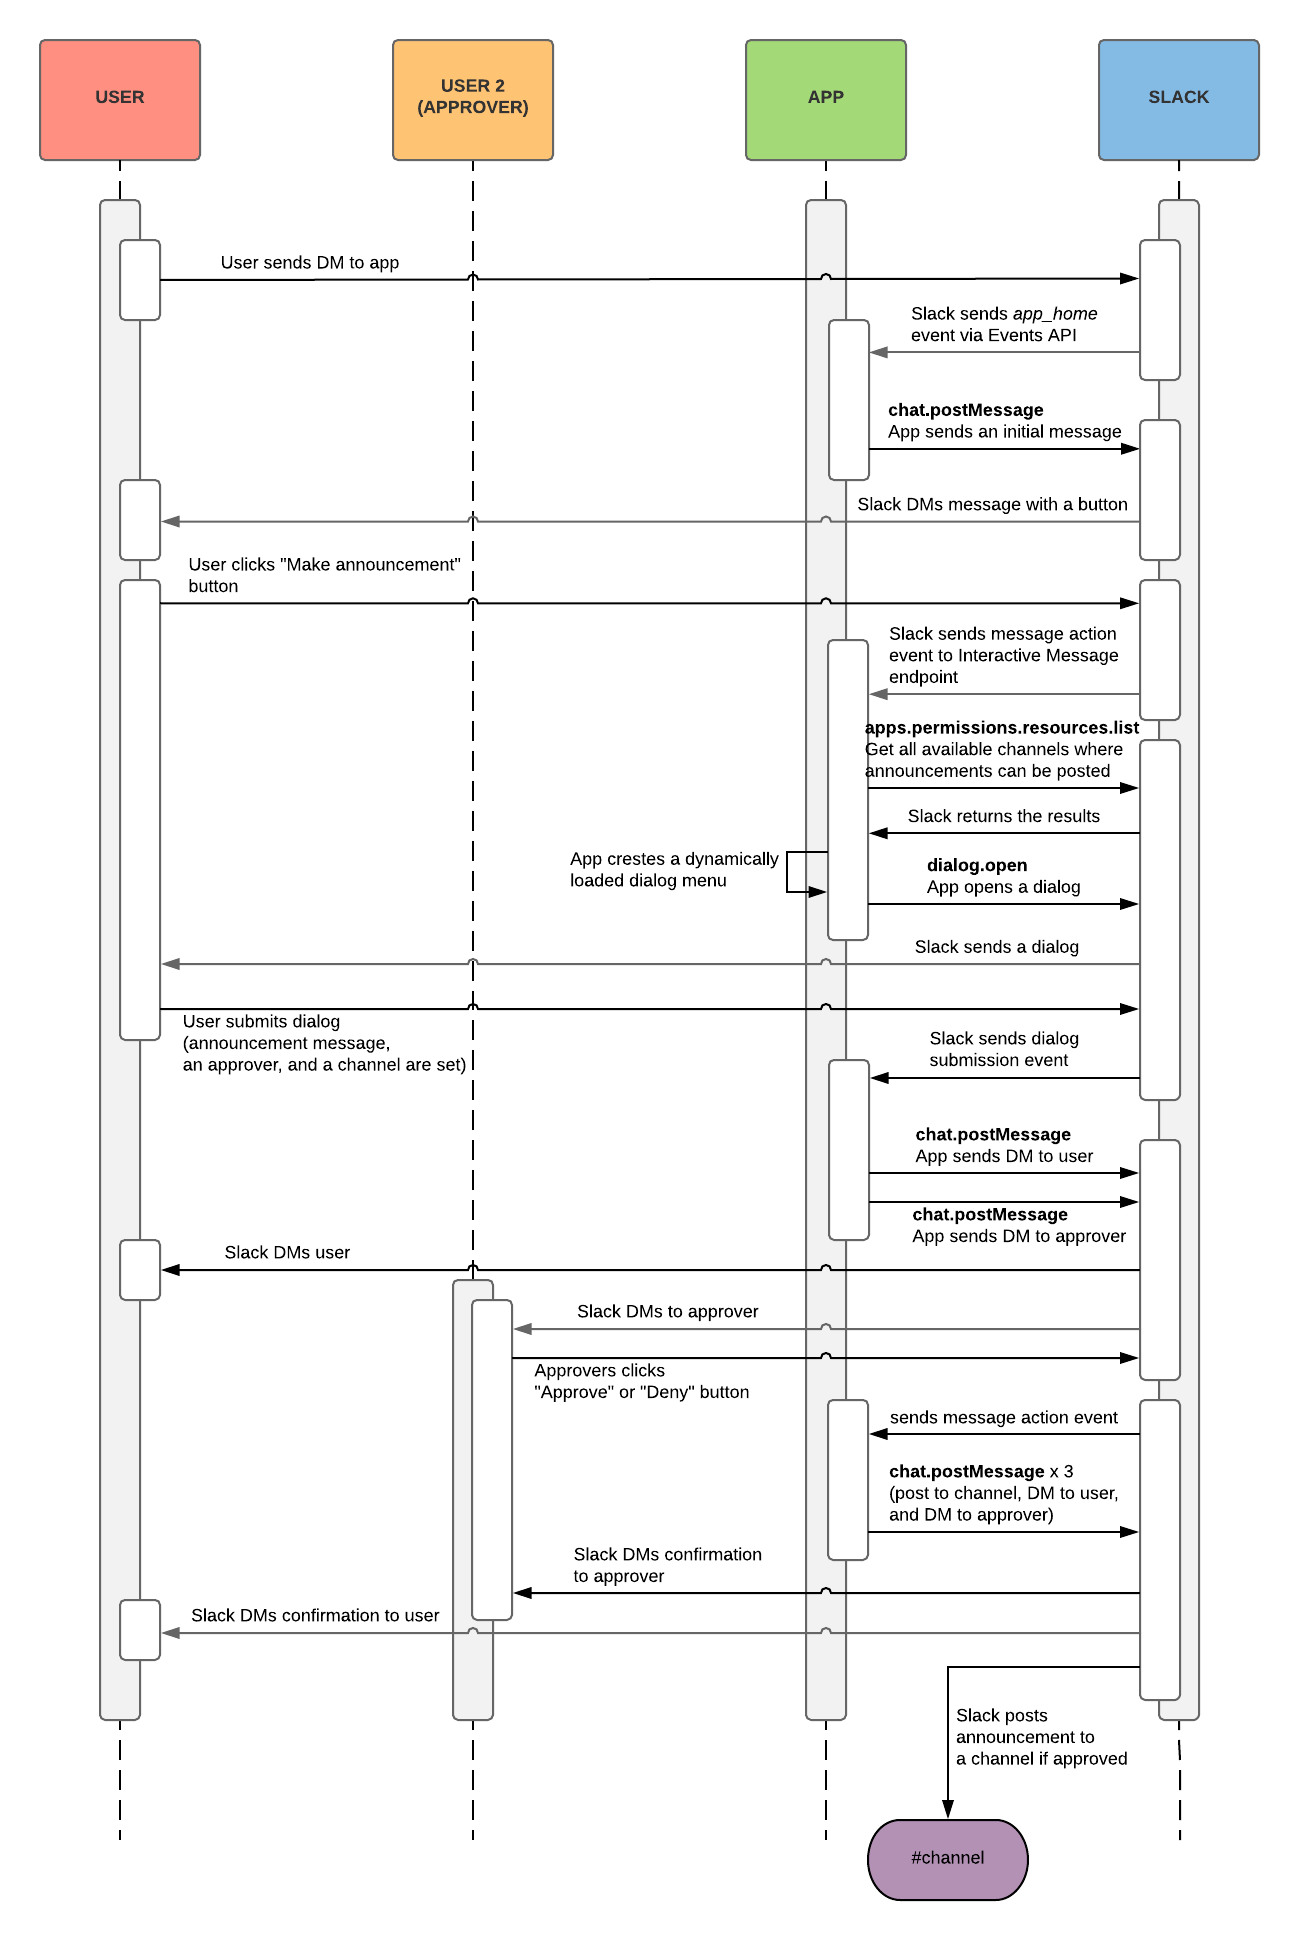
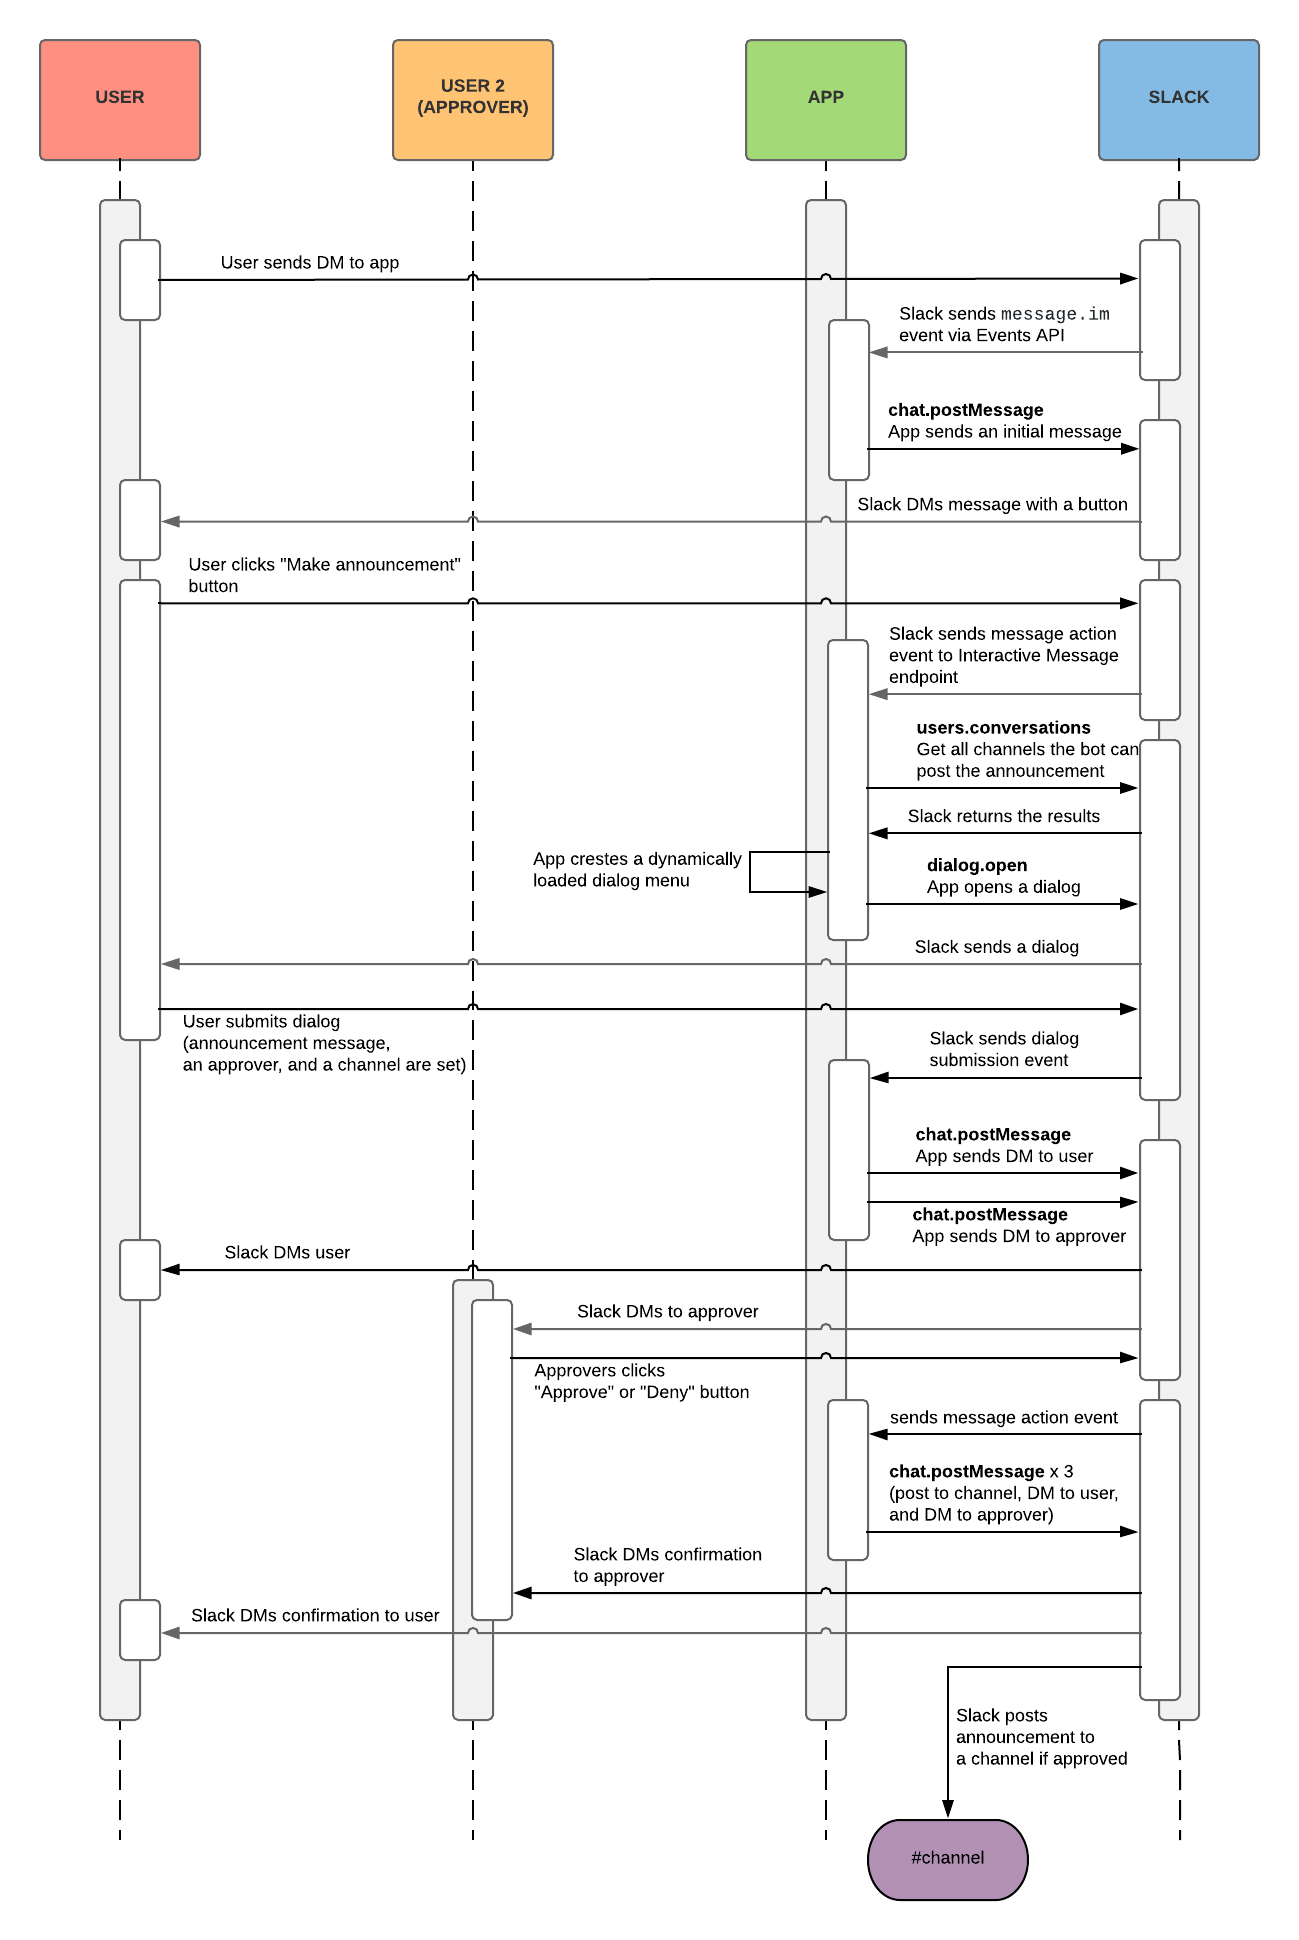
Add a new diagram. Also remove unused functions.

Changed region(s): [[0.6467, 0.3711, 0.893, 0.4021], [0.4003, 0.433, 0.6159, 0.4639], [0.6774, 0.1546, 0.8314, 0.1856]]

diff --git a/src/channels.js b/src/channels.js
@@ -10,13 +10,6 @@ const slackAuthToken = process.env.SLACK_ACCESS_TOKEN;
  *  Get a list of authorized resources
  */
 
-const getBotId = async() => {
-  const data = {
-    token: slackAuthToken
-  };
-  return axios.post(`${apiUrl}/bots.info`, qs.stringify(data));
-}
-
 const findAuthedChannels = async(id, cursor) => {
   const bot = id;
   
@@ -40,17 +33,4 @@ const findAuthedChannels = async(id, cursor) => {
   
 };
 
-/*
- *  Get a channel name from the id
- */
-
-const getChannelName = (channelId) => {
-  const data = {
-    token: slackAuthToken,
-    channel: channelId
-  };
-  const promise = axios.post(`${apiUrl}/conversations.info`, qs.stringify(data));
-  return promise;
-};
-
-module.exports = { findAuthedChannels, getChannelName };
+module.exports = { findAuthedChannels };

diff --git a/README.md b/README.md
@@ -3,8 +3,6 @@
 
 > :sparkles: *Updated Jan 2019: All the changes from the previous version of this example, read the [diff.md](diff.md)*
 
-*Learn more about the workspace app at the [Slack API doc](https://api.slack.com/workspace-apps-preview).*
-
 ---
 
 This app will send announcements into a channel of your choice. Users can DM this app to get their announcements into a review queue. Once the approver gives the thumbs up, the announcement will be posted to public.
@@ -61,6 +59,6 @@ Set Environment Variables and run:
 
 On Slack client, "invite" your bot to appropriate channels. The bot cannot post messages to the channels where the bot is not added.
 
-## The app sequence diagram (Outdated. will be replaced with a new diagram soon!)
+## The app sequence diagram
 
 ![dialog](images/diagram_approval_flow.png)
